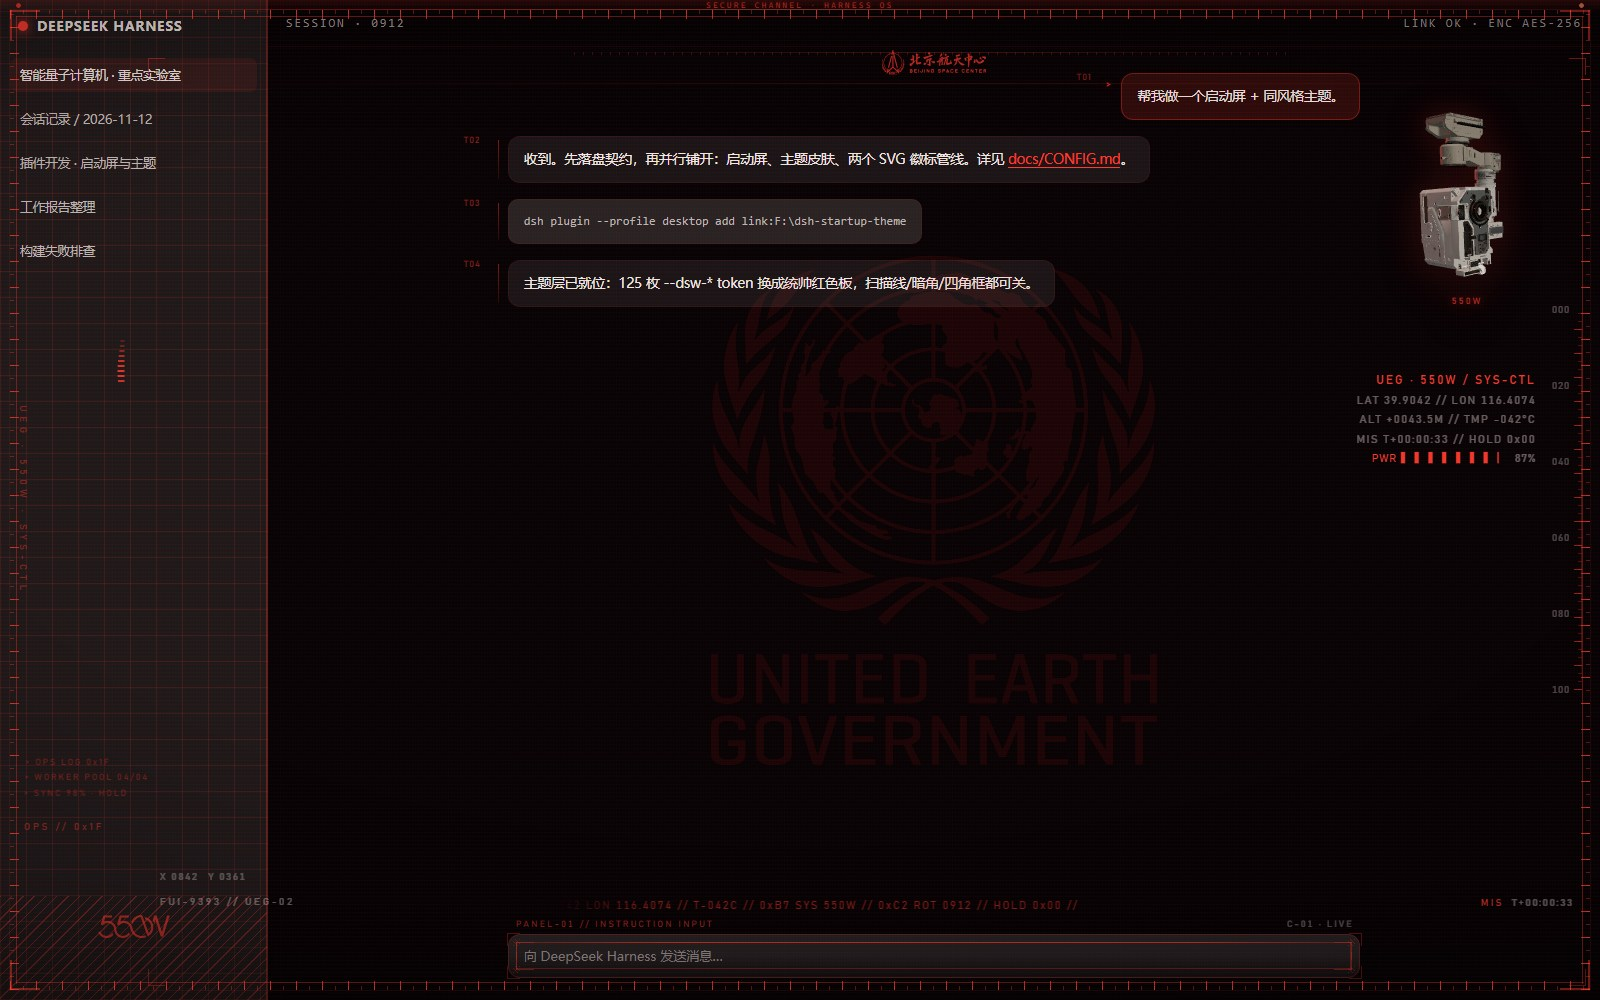
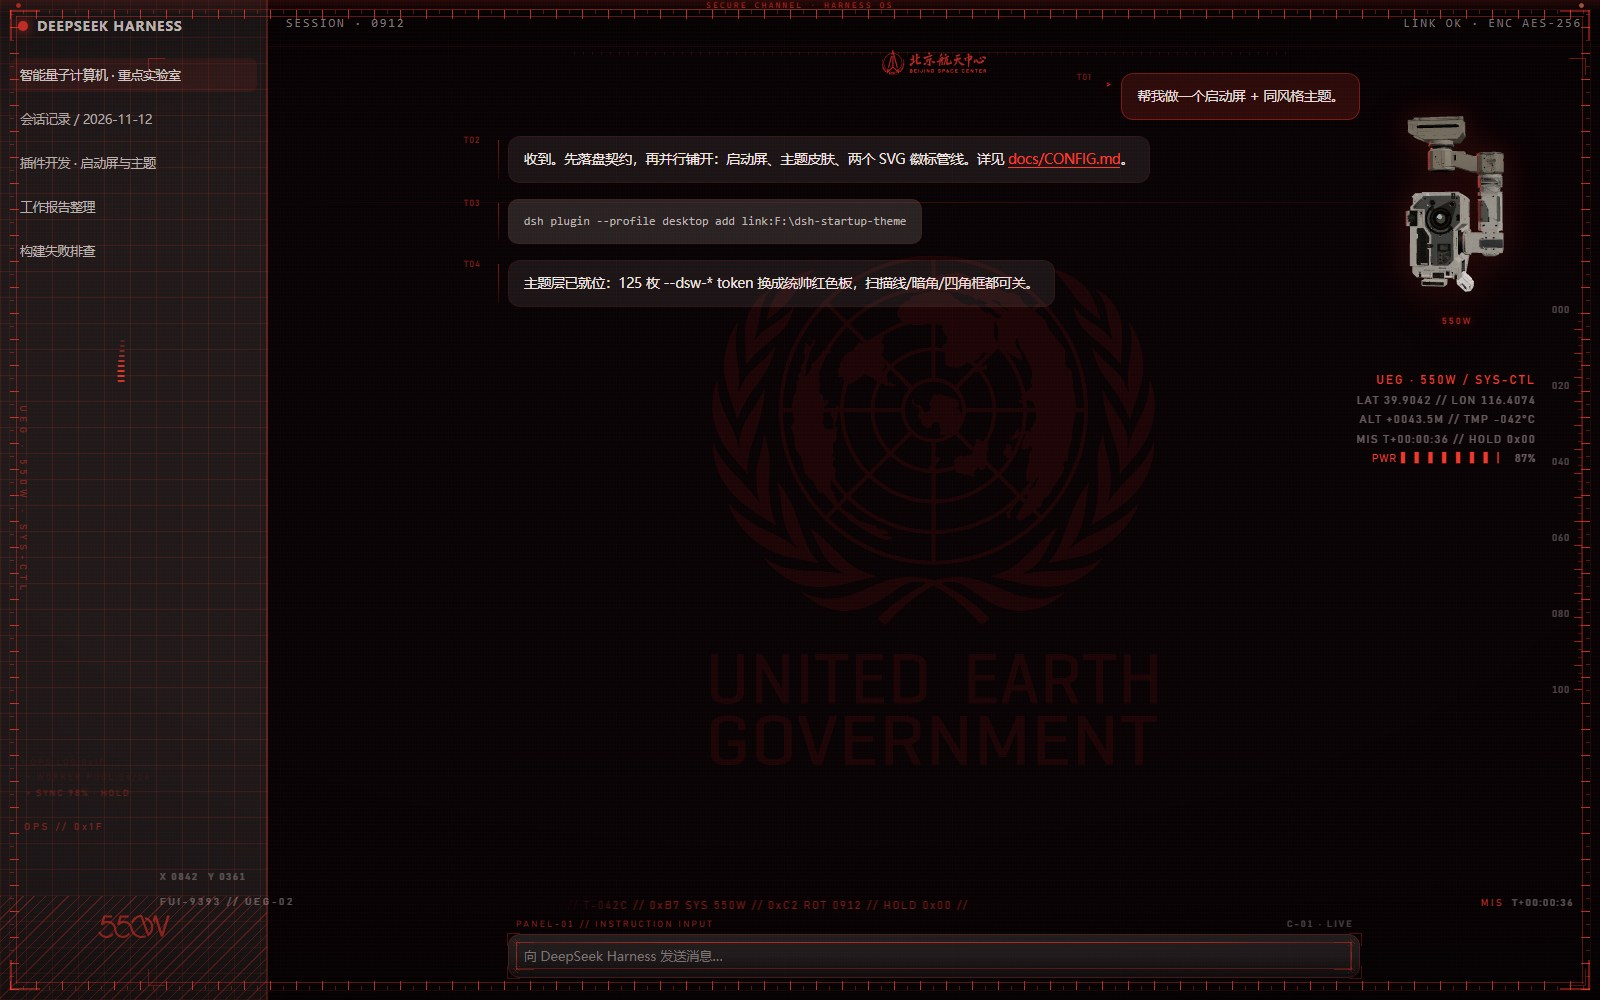
feat(pet): live settings apply (vars/deco/pet on save), size/toggle instantly, camera-look idle without 360 spin (v1.2.1)

Changed region(s): [[0.875, 0.093, 0.9375, 0.31], [0.4375, 0.899, 0.6562, 0.93]]

diff --git a/lib/pet.js b/lib/pet.js
@@ -41,7 +41,7 @@ function state(stage, extra) {
 
 export async function startPet() {
   state('start')
-  const cfg = readCfg()
+  let cfg = readCfg()
   if (!cfg.enabled) return null
   if (window.__DSC_PET__) return window.__DSC_PET__
   window.__DSC_PET__ = true
@@ -122,7 +122,15 @@ export async function startPet() {
 
   let mixerTime = 0
   let ready = false
-  let armNodes = []
+  let joints = {}
+  const rawParts = {}
+  const JOINT_NAMES = ['shoulder', 'elbow', 'head']
+  /* 锚点来自 moss-exterior.json（CAD mm，根空间） */
+  const ANCHORS = {
+    shoulder: [43.72372817993164, 199.61929321289062, -20.99999237060547],
+    elbow: [109.67351531982422, 170.25534057617188, -17.32156753540039],
+    wrist: [83.83039855957031, 63.620994567871094, -18.83231544494629]
+  }
   let waveUntil = 0
   let visible = true
   let dirty = true
@@ -184,7 +192,7 @@ export async function startPet() {
           }
         }
       }
-      if (/机械臂|arm/i.test(node.name || '')) armNodes.push({ node, base: node.rotation.clone() })
+      if (JOINT_NAMES.includes(node.name) && !rawParts[node.name]) rawParts[node.name] = node
     })
     frameModel(root)
     bob.add(root)
@@ -194,11 +202,33 @@ export async function startPet() {
     box.remove()
     return null
   }
-  state('ready', { arms: armNodes.length })
+  /* CAD 装配体没有可用的运动学链（直接转零件会散架），所以不动模型本身：
+     用相机小幅环视 + 整机浮动来制造"它在看着你/轻轻转动"的活物感，绝不 360° 旋转 */
+  const camBase = camera.position.clone()
+  const camDist = camBase.length()
+  joints = { camera: true }
+  state('ready', { joints: ['camera'], arms: 1 })
 
-  /* 机械臂默认姿态：让手臂稍微张开一点，像待机 */
-  for (const item of armNodes) {
-    item.base = item.node.rotation.clone()
+  /* 关节姿态状态：随机选目标 → 缓动过去 → 停留 → 再换一个 */
+  const pose = { yaw: 0, bend: 0, pitch: 0 }
+  const target = { yaw: 0, bend: 0, pitch: 0 }
+  let nextPoseAt = performance.now() + 1600
+  const rand = (lo, hi) => lo + Math.random() * (hi - lo)
+  const pickPose = () => {
+    target.yaw = rand(-13, 13)
+    target.bend = 0
+    target.pitch = rand(-6, 8)
+    nextPoseAt = performance.now() + rand(1900, 4600)
+  }
+  const applyPose = () => {
+    const yaw = (pose.yaw * Math.PI) / 180
+    const pitch = (pose.pitch * Math.PI) / 180
+    camera.position.set(
+      Math.sin(yaw) * camDist,
+      camBase.y + Math.sin(pitch) * camDist * 0.55,
+      Math.cos(yaw) * camDist
+    )
+    camera.lookAt(0, 0, 0)
   }
 
   /* ── 拖动 ────────────────────────────────────────────────────────────── */
@@ -247,15 +277,24 @@ export async function startPet() {
     const waving = performance.now() < waveUntil
 
     if (!reduced) {
-      pivot.rotation.y += dt * (waving ? 0.8 : 0.18)
-      bob.position.y = Math.sin(t * 0.9) * 0.012
-      bob.rotation.z = Math.sin(t * 0.55) * 0.01
-      for (let i = 0; i < armNodes.length; i++) {
-        const item = armNodes[i]
-        const amp = waving ? 0.22 : 0.05
-        item.node.rotation.z = item.base.z + Math.sin(t * (waving ? 3.4 : 0.6) + i * 1.7) * amp
-        item.node.rotation.y = item.base.y + Math.sin(t * 0.45 + i) * 0.03
+      /* 不再 360° 自转：只做很小的朝向摆动，像在工作台前轻微转头 */
+      pivot.rotation.y = Math.sin(t * 0.11) * 0.1
+      bob.position.y = Math.sin(t * 0.9) * 0.01
+      bob.rotation.z = Math.sin(t * 0.55) * 0.008
+
+      if (performance.now() > nextPoseAt) pickPose()
+      if (waving) {
+        /* 点一下：连续小幅度"挥手" */
+        target.yaw = Math.sin(t * 5.2) * 10
+        target.bend = 18 + Math.sin(t * 5.6) * 14
+        target.pitch = Math.sin(t * 4.4) * 6
+        nextPoseAt = performance.now() + 500
       }
+      const k = 1 - Math.exp(-dt * 2.4)
+      pose.yaw += (target.yaw - pose.yaw) * k
+      pose.bend += (target.bend - pose.bend) * k
+      pose.pitch += (target.pitch - pose.pitch) * k
+      applyPose()
     }
     renderer.render(scene, camera)
   }
@@ -277,9 +316,55 @@ export async function startPet() {
     mo.observe(document.documentElement, { childList: true, subtree: true })
   } catch (err) { /* noop */ }
 
+  const api = {
+    box,
+    place,
+    show: () => setVisible(true),
+    hide: () => setVisible(false),
+    resize: (size) => {
+      const next = Math.round(Math.min(260, Math.max(80, Number(size) || cfg.size)))
+      if (next === cfg.size) return
+      cfg.size = next
+      box.style.width = box.style.height = next + 'px'
+      resize()
+      place(box.offsetLeft, box.offsetTop)
+      dirty = true
+      if (raf === 0) tick()
+    },
+    setEnabled: (on) => { cfg.enabled = !!on; if (on) { setVisible(true) } else { setVisible(false); box.remove() } }
+  }
+  window.__DSC_PET_INSTANCE__ = api
   tick()
-  return { box, place, show: () => setVisible(true), hide: () => setVisible(false) }
+  return api
 }
 
 state('module-loaded')
+
+/** 供设置面板/主题用：{enabled,size} 变化时即时应用（不需要刷新） */
+async function applyPetConfig(next) {
+  try {
+    if (!next) return
+    const enabled = next.enabled !== false
+    const size = Math.round(Math.min(260, Math.max(80, Number(next.size) || 140)))
+    if (!enabled) {
+      const inst = window.__DSC_PET_INSTANCE__
+      if (inst) inst.hide()
+      return
+    }
+    const inst = window.__DSC_PET_INSTANCE__
+    if (inst) {
+      inst.resize(size)
+      inst.show()
+      return
+    }
+    cfg = Object.assign({}, cfg, { enabled: true, size })
+    await startPet({ enabled: true, size })
+  } catch (err) {
+    state('apply-failed', { error: String((err && err.stack) || err) })
+  }
+}
+
+window.__DSC_PET_API__ = { apply: applyPetConfig }
+window.addEventListener('dsc:pet-config', (ev) => { applyPetConfig(ev && ev.detail) })
+
 startPet().catch((err) => { state('crashed', { error: String((err && err.stack) || err) }) })

diff --git a/lib/client.js b/lib/client.js
@@ -684,6 +684,33 @@ window.__ModuleLoader__.load({
         } catch (e) { return undefined }
       }, [])
 
+      /** 保存后即时生效：重取 vars.css + 更新 html 属性（配色/HUD/FUI/装饰开关不用重启） */
+      function applyLiveConfig(cfg) {
+        if (!cfg) return
+        try { pushPetConfig(cfg) } catch (e) { /* noop */ }
+        try {
+          var html = document.documentElement
+          if (cfg.enabled === false) html.removeAttribute('data-dsh-command')
+          else html.setAttribute('data-dsh-command', 'on')
+          html.setAttribute('data-dsc-watermark', cfg.watermark === false ? 'off' : 'on')
+          html.setAttribute('data-dsc-corner', cfg.cornerLogo === false ? 'off' : 'on')
+          html.setAttribute('data-dsc-model', cfg.modelLogo === false ? 'off' : 'on')
+          html.setAttribute('data-dsc-fui-extra', cfg.fuiExtra === false ? 'off' : 'on')
+        } catch (e) { /* noop */ }
+        try {
+          fetch('/dsh-command/vars.css', { cache: 'no-store' }).then(function (r) { return r.text() }).then(function (css) {
+            if (!css) return
+            var el = document.getElementById('dsh-command-vars')
+            if (!el) {
+              el = document.createElement('style')
+              el.id = 'dsh-command-vars'
+              ;(document.head || document.documentElement).appendChild(el)
+            }
+            el.textContent = css
+          }).catch(function () { /* 路由不可用就算了 */ })
+        } catch (e) { /* noop */ }
+      }
+
       function absorb(json) {
         var nextPresets = json && json.presets && typeof json.presets === 'object' ? json.presets : {}
         var cfg = normalizeConfig(json && json.config, json && json.defaults)
@@ -693,6 +720,7 @@ window.__ModuleLoader__.load({
         setFile(json && json.file ? text(json.file) : '')
         if (json && json.version) setVersion(text(json.version))
         setConfirmReset(false)
+        try { applyLiveConfig(json && json.config) } catch (e) { /* noop */ }
       }
 
       function load() {
@@ -725,9 +753,24 @@ window.__ModuleLoader__.load({
       var dirty = dirtyKeys.length > 0
       function changed(key) { return dirtyKeys.indexOf(key) !== -1 }
 
+      /** 宠物尺寸/开关即时生效：给页面里的 pet.js 派发一次配置（无需刷新） */
+      function pushPetConfig(next) {
+        try {
+          if (!next) return
+          window.dispatchEvent(new CustomEvent('dsc:pet-config', {
+            detail: { enabled: next.pet !== false, size: Number(next.petSize) || 140 }
+          }))
+        } catch (e) { /* noop */ }
+      }
+
       function set(key, value) {
         setNotice(null)
         setSaveError(null)
+        if (key === 'pet' || key === 'petSize') {
+          var merged = Object.assign({}, draft || {})
+          merged[key] = value
+          pushPetConfig(merged)
+        }
         setDraft(function (current) {
           if (!current) return current
           var next = Object.assign({}, current)

diff --git a/lib/selfboot.js b/lib/selfboot.js
@@ -38,6 +38,9 @@ export function renderSelfBoot(p) {
   var ROOT=${JSON.stringify(p.rootId)};
   if(${p.enabled ? 'true' : 'false'})html.setAttribute(${JSON.stringify(p.htmlAttr)},'on');
   html.setAttribute('data-dsc-fui-extra',${p.fuiExtra === false ? "'off'" : "'on'"});
+  html.setAttribute('data-dsc-watermark',${p.watermark === false ? "'off'" : "'on'"});
+  html.setAttribute('data-dsc-corner',${p.cornerLogo === false ? "'off'" : "'on'"});
+  html.setAttribute('data-dsc-model',${p.modelLogo === false ? "'off'" : "'on'"});
   function node(tag,attrs,text){var n=document.createElement(tag);if(attrs){for(var k in attrs){if(attrs[k]!=null)n.setAttribute(k,attrs[k]);}}if(text!=null)n.textContent=text;return n;}
   var head=document.head;
   head.appendChild(node('link',{rel:'stylesheet',href:R+'/theme.css'}));
@@ -96,7 +99,7 @@ export function renderSelfBoot(p) {
   if(document.body)mount();else document.addEventListener('DOMContentLoaded',mount,{once:true});
   /* 550W 桌面宠物（可关；模型缺失会自动隐藏） */
   try{
-    if(${p.pet === false ? 'false' : 'true'}&&!document.querySelector('script[data-dsc-pet]')){
+    if(!document.querySelector('script[data-dsc-pet]')){
       var pet=document.createElement('script');
       pet.type='module';pet.src=${JSON.stringify(p.route + '/pet/pet.js')};pet.setAttribute('data-dsc-pet','on');
       (document.head||document.documentElement).appendChild(pet);

diff --git a/lib/index.js b/lib/index.js
@@ -480,13 +480,16 @@ var ROOT='${ROOT_ID}';
 if(c.enabled!==false)html.setAttribute('${HTML_ATTR}','on');
 /* 550W 桌面宠物：默认开；pet.js 自己会读配置并静默失败 */
 try{
-  if(c.pet!==false&&!document.querySelector('script[data-dsc-pet]')){
+  if(!document.querySelector('script[data-dsc-pet]')){
     var petTag=document.createElement('script');
     petTag.type='module';petTag.src='${ROUTE}/pet/pet.js';petTag.setAttribute('data-dsc-pet','on');
     (document.head||document.documentElement).appendChild(petTag);
   }
 }catch(e){}
 html.setAttribute('data-dsc-fui-extra',c.fuiExtra===false?'off':'on');
+html.setAttribute('data-dsc-watermark',c.watermark===false?'off':'on');
+html.setAttribute('data-dsc-corner',c.cornerLogo===false?'off':'on');
+html.setAttribute('data-dsc-model',c.modelLogo===false?'off':'on');
 function clearRoot(){try{
   var r=document.getElementById(ROOT);if(r&&r.parentNode)r.parentNode.removeChild(r);
   html.classList.remove('dsc-lock');
@@ -597,6 +600,9 @@ function buildSelfBootJs(cfg) {
     enabled: cfg.enabled !== false,
     pet: cfg.pet !== false,
     fuiExtra: cfg.fuiExtra !== false,
+    watermark: cfg.watermark !== false,
+    cornerLogo: cfg.cornerLogo !== false,
+    modelLogo: cfg.modelLogo !== false,
     route: ROUTE,
     rootId: ROOT_ID,
     htmlAttr: HTML_ATTR,

diff --git a/lib/theme.css b/lib/theme.css
@@ -1835,3 +1835,11 @@ html[data-dsh-command="on"][data-dsc-fui-extra="off"]
 
 /* 启动屏期间藏起来，别挡住开场 */
 html.dsc-lock .dsc-pet { opacity: 0; pointer-events: none; }
+
+
+/* ── 保存后即时生效：装饰层单项开关（不重建 DOM，只切显示） ── */
+html[data-dsc-watermark="off"] .dsc-deco__wm,
+html[data-dsc-corner="off"] .dsc-deco__mark,
+html[data-dsc-model="off"] .dsc-deco__model {
+  display: none !important;
+}

diff --git a/README.md b/README.md
@@ -423,10 +423,12 @@ IQC AUTH … OK / 550W ONLINE`，逐行出现）和 550W 下方**连接进度条
 
 ## 550W 桌面宠物（可拖动）
 
-在界面上浮一个会动的 550W 模型（three.js 渲染），像桌面宠物：
+在界面上浮一个会动的 550W 模型（three.js 渲染），像桌面宠物（**设置里保存后即时生效，不用重启**）：
 
 - **默认停在窗口顶部右侧**，按住拖到任意位置（限制在视口上半部，左右滑动为主），位置记在 `localStorage`；
-- **待机动画**：模型缓慢自转 + 轻微浮动；模型里 5 个「机械臂」节点会小幅摆动；点一下会短促地"挥手"；
+- **尺寸/开关即时生效**：设置里的滑块一拖就变；点保存后也会把最终值应用上去（不用刷新）；
+- **不做 360° 自转**：待机是相机小幅"环视"（左右看 + 轻微俯仰）+ 机身浮动，像在工作台前观察；点一下进入短促"环视加速"；
+- 说明：这个 GLB 是 CAD 装配体（没有运动学链），直接转零件会把模型拆散，所以宠物用相机环视制造"活物感"，不动模型本身；
 - **没有吊轨、没有外框**，纯悬浮 + 主色辉光 + 小 `550W` 铭牌；
 - 启动屏播放期间自动隐藏；`prefers-reduced-motion` 时只渲染一帧、不跑动画；
 - 设置里可关（`pet`）或调尺寸（`petSize` 80–260px）。
